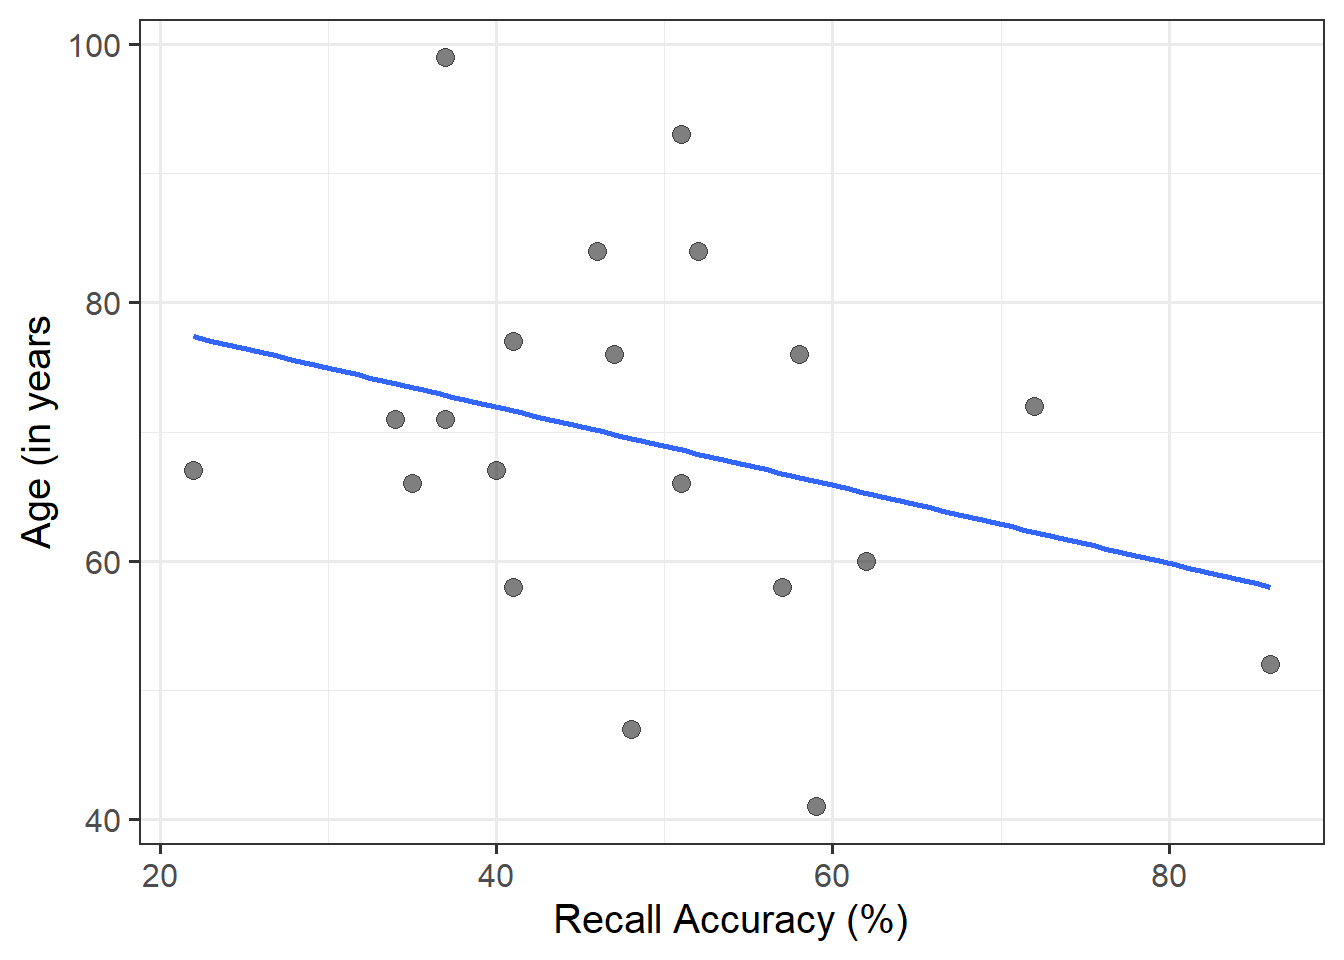
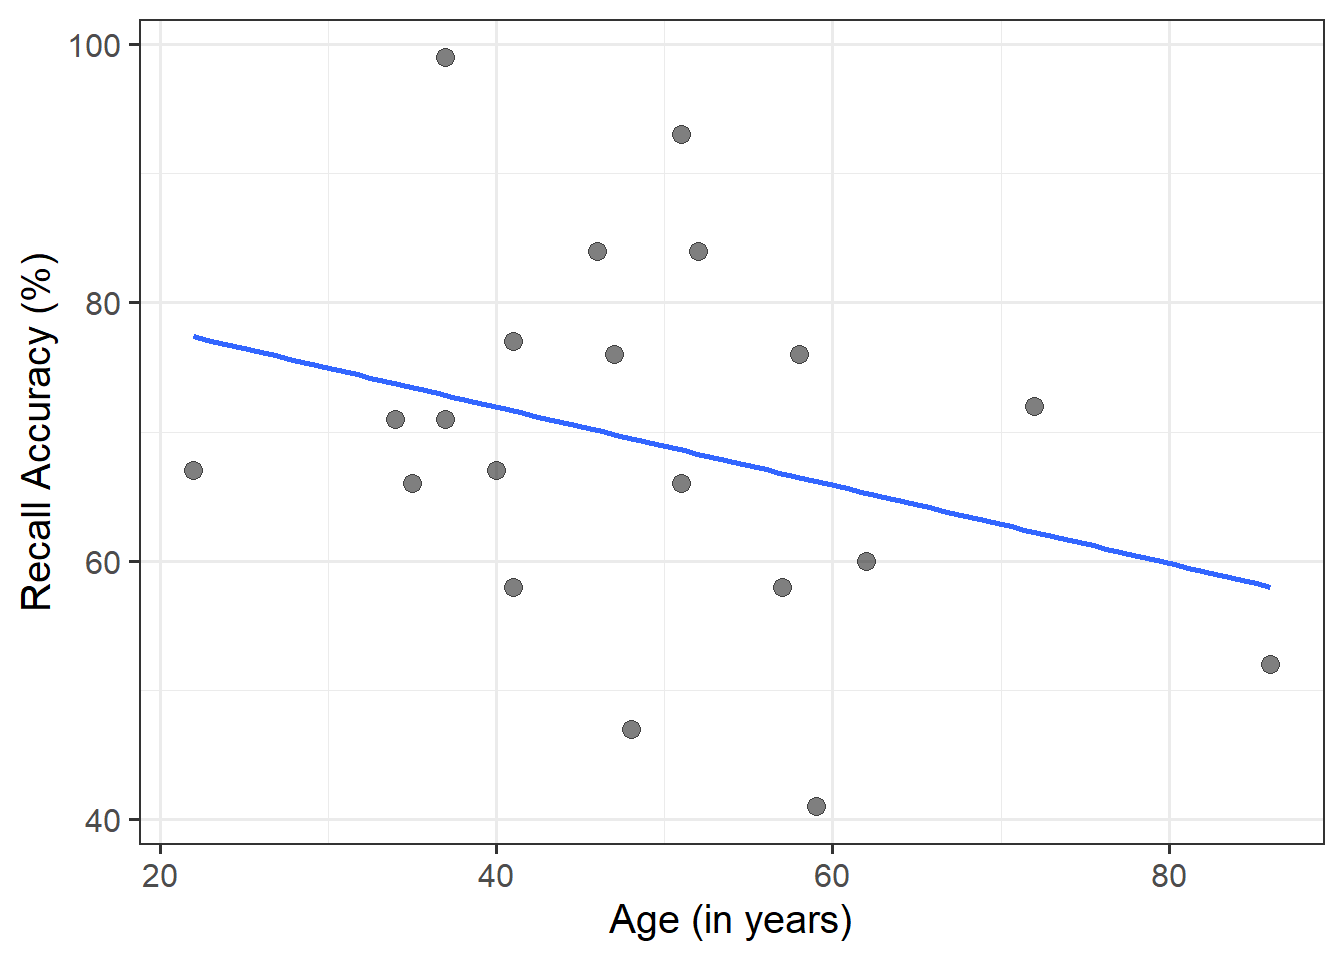
s1 w1 lab and b1 reading typo fixes

Changed region(s): [[0.0, 0.2812, 0.0625, 0.6562], [0.4062, 0.9375, 0.6875, 1.0]]

diff --git a/docs/2425/labs/1_b1_reading.html b/docs/2425/labs/1_b1_reading.html
@@ -258,7 +258,7 @@ if(f.classList.contains('fa-circle-right')) {
 </section>
 </div>
 <section id="back-to-basics" class="level1"><h1>Back to Basics</h1>
-<p>For an overview of basic statistical tests and core concepts (e.g., <span class="math inline">\(p\)</span>-values), please revisit the <a href="https://uoepsy.github.io/dapr1/2324/">DAPR1 materials</a> for a refresher.</p>
+<p>For an overview of basic statistical tests and core concepts (e.g., <span class="math inline">\(p\)</span>-values), please revisit the <a href="https://uoepsy.github.io/dapr1/2324/">DAPR1 materials</a> for a refresher (also accessible via the DAPR1 Learn page).</p>
 <div class="optional-begin">
 <span id="opt-start-1" class="fa-solid fa-circle-right optional-icon clickable" onclick="toggle_visibility('opt-body-1', 'opt-start-1')"> <span class="olab">Terminology</span></span>
 </div>
@@ -488,7 +488,7 @@ The <em>strength</em> of association entails how closely the points fall to a re
 </li>
 </ul>
 </li>
-<li>Direction: The sign of <span class="math inline">\(r\)</span> says nothing about the strength of the association, but its naure and direction:
+<li>Direction: The sign of <span class="math inline">\(r\)</span> says nothing about the strength of the association, but its nature and direction:
 <ul>
 <li>Positive association means that values of one variable tend to be higher when values of the other variable are higher</li>
 <li>Negative association means that values of one variable tend to be lower when values of the other variable are higher</li>
@@ -1177,7 +1177,7 @@ Why is there a 1 in the two bottom options?
 <span id="opt-start-16" class="fa-solid fa-circle-right optional-icon clickable" onclick="toggle_visibility('opt-body-16', 'opt-start-16')"> <span class="olab">Simple Linear Regression Models - Example</span></span>
 </div>
 <div id="opt-body-16" class="optional-body" style="display: none;">
-<p>Imagine that you were taked to investigate whether there was asn association between recall accuracy and age. You have been provided with data from twenty participants who studied passages of text (c500 words long), and were tested a week later. The testing phase presented participants with 100 statements about the text. They had to answer whether each statement was true or false, as well as rate their confidence in each answer (on a sliding scale from 0 to 100). The dataset contains, for each participant, the percentage of items correctly answered, their age (in years), and their average confidence rating.</p>
+<p>Imagine that you were tasked to investigate whether there was an association between recall accuracy and age. You have been provided with data from twenty participants who studied passages of text (c500 words long), and were tested a week later. The testing phase presented participants with 100 statements about the text. They had to answer whether each statement was true or false, as well as rate their confidence in each answer (on a sliding scale from 0 to 100). The dataset contains, for each participant, the percentage of items correctly answered, their age (in years), and their average confidence rating.</p>
 <p>The data are available at <a href="https://uoepsy.github.io/data/recalldata.csv">https://uoepsy.github.io/data/recalldata.csv</a></p>
 <p>We could specify our model as:</p>
 <p><span class="math display">\[
@@ -1440,7 +1440,7 @@ t = \frac{\hat \beta_j - 0}{SE(\hat \beta_j)}
 <div class="sourceCode" id="cb35"><pre class="downlit sourceCode r"><code class="sourceCode R"><span><span class="fu"><a href="https://ggplot2.tidyverse.org/reference/ggplot.html">ggplot</a></span><span class="op">(</span><span class="va">recalldata</span>, <span class="fu"><a href="https://ggplot2.tidyverse.org/reference/aes.html">aes</a></span><span class="op">(</span>x <span class="op">=</span> <span class="va">age</span>, y <span class="op">=</span> <span class="va">recall_accuracy</span><span class="op">)</span><span class="op">)</span> <span class="op">+</span> </span>
 <span>    <span class="fu"><a href="https://ggplot2.tidyverse.org/reference/geom_point.html">geom_point</a></span><span class="op">(</span>size <span class="op">=</span> <span class="fl">3</span>, alpha <span class="op">=</span> <span class="fl">0.5</span><span class="op">)</span> <span class="op">+</span></span>
 <span>    <span class="fu"><a href="https://ggplot2.tidyverse.org/reference/geom_smooth.html">geom_smooth</a></span><span class="op">(</span>method <span class="op">=</span> <span class="va">lm</span>, se <span class="op">=</span> <span class="cn">FALSE</span><span class="op">)</span> <span class="op">+</span> </span>
-<span>    <span class="fu"><a href="https://ggplot2.tidyverse.org/reference/labs.html">labs</a></span><span class="op">(</span>x <span class="op">=</span> <span class="st">"Recall Accuracy (%)"</span>, y <span class="op">=</span> <span class="st">"Age (in years"</span><span class="op">)</span></span></code></pre></div>
+<span>    <span class="fu"><a href="https://ggplot2.tidyverse.org/reference/labs.html">labs</a></span><span class="op">(</span>x <span class="op">=</span> <span class="st">"Age (in years)"</span>, y <span class="op">=</span> <span class="st">"Recall Accuracy (%)"</span><span class="op">)</span></span></code></pre></div>
 <div class="cell-output-display">
 <div id="fig-recallage-fitted-model" class="quarto-figure quarto-figure-center anchored">
 <figure class="figure"><p><img src="1_b1_reading_files/figure-html/fig-recallage-fitted-model-1.png" class="img-fluid figure-img" style="width:80.0%"></p>
@@ -1836,7 +1836,7 @@ F_{(df_{model},~df_{residual})} = \frac{MS_{Model}}{MS_{Residual}} = \frac{SS_{M
 \]</span></p>
 <p><strong>Description:</strong></p>
 <p>To test the significance of an overall model, we can conduct an <span class="math inline">\(F\)</span>-test. The <span class="math inline">\(F\)</span>-test compares your model to a model containing zero predictor variables (i.e., the intercept only model), and tests whether your added predictor variables significantly improved the model.</p>
-<p>It is called the <span class="math inline">\(F\)</span>-ratio because it is the ratio of the how much of the variation is explained by the model (per paramater) versus how much of the variation is unexplained (per remaining degrees of freedom).</p>
+<p>It is called the <span class="math inline">\(F\)</span>-ratio because it is the ratio of the how much of the variation is explained by the model (per parameter) versus how much of the variation is unexplained (per remaining degrees of freedom).</p>
 <p>The <span class="math inline">\(F\)</span>-test involves testing the statistical significance of the <span class="math inline">\(F\)</span>-ratio.</p>
 <p><strong>Q:</strong> What does the <span class="math inline">\(F\)</span>-ratio test?<br><strong>A:</strong> The null hypothesis that all regression slopes in a model are zero (i.e., explain no variance in your outcome/DV). The alternative hypothesis is that <strong>at least one of the slopes is not zero</strong>.</p>
 <p>The <span class="math inline">\(F\)</span>-ratio you see at the bottom of <code>summary(model)</code> is actually a comparison between two models: your model (with some explanatory variables in predicting <span class="math inline">\(y\)</span>) and the <em>null model</em>.</p>
@@ -2128,7 +2128,7 @@ BIC = n\,\text{ln}\left( \frac{SS_{residual}}{n} \right) + k\,\text{ln}(n) \\
 <span id="opt-start-35" class="fa-solid fa-circle-right optional-icon clickable" onclick="toggle_visibility('opt-body-35', 'opt-start-35')"> <span class="olab">Cross Referencing</span></span>
 </div>
 <div id="opt-body-35" class="optional-body" style="display: none;">
-<p>There are three key components to allow you to successfully cross-reference within yoru RMarkdown document:</p>
+<p>There are three key components to allow you to successfully cross-reference within your RMarkdown document:</p>
 <ul>
 <li>A bookdown output format</li>
 <li>A caption to your figure or table</li>
@@ -2139,9 +2139,6 @@ BIC = n\,\text{ln}\left( \frac{SS_{residual}}{n} \right) + k\,\text{ln}(n) \\
 </div>
 <p class="optional-end">
 </p>
-<div class="cell" data-layout-align="center">
-<div class="sourceCode" id="cb59"><pre class="downlit sourceCode r"><code class="sourceCode R"><span><span class="kw"><a href="https://rdrr.io/r/base/library.html">library</a></span><span class="op">(</span><span class="va"><a href="https://tidyverse.tidyverse.org">tidyverse</a></span><span class="op">)</span></span></code></pre></div>
-</div>
 
 
 </section></section><div id="quarto-appendix" class="default"><section id="footnotes" class="footnotes footnotes-end-of-document" role="doc-endnotes"><h2 class="anchored quarto-appendix-heading">Footnotes</h2>

diff --git a/docs/2425/labs/1_01_slr.html b/docs/2425/labs/1_01_slr.html
@@ -250,7 +250,7 @@ if(f.classList.contains('fa-circle-right')) {
 <li><strong>kableExtra</strong></li>
 </ul></section><section id="presenting-results" class="level3"><h3 class="anchored" data-anchor-id="presenting-results">
 <i class="fa fa-pencil-square-o" aria-hidden="true"></i> Presenting Results</h3>
-<p>All results should be presented following <a href="https://apastyle.apa.org/instructional-aids/numbers-statistics-guide.pdf">APA guidelines</a>.If you need a reminder on how to hide code, format tables/plots, etc., make sure to review the <a href="https://uoepsy.github.io//rmd-bootcamp/">rmd bootcamp</a>.</p>
+<p>All results should be presented following <a href="https://apastyle.apa.org/instructional-aids/numbers-statistics-guide.pdf">APA guidelines</a>.If you need a reminder on how to hide code, format tables/plots, etc., make sure to review the <a href="https://uoepsy.github.io/scs/rmd-bootcamp/">rmd bootcamp</a>.</p>
 <p>The example write-up sections included as part of the solutions are <strong>not perfect</strong> - they instead should give you a good example of what information you should include and how to structure this. Note that you must <strong>not</strong> copy any of the write-ups included below for future reports - if you do, you will be committing plagiarism, and this type of academic misconduct is taken very seriously by the University. You can find out more <a href="https://www.ed.ac.uk/academic-services/students/conduct/academic-misconduct">here</a>.</p>
 </section><section id="lab-data" class="level3"><h3 class="anchored" data-anchor-id="lab-data">
 <i class="fa fa-file"></i> Lab Data</h3>
@@ -1953,7 +1953,8 @@ In your <code><a href="https://ggplot2.tidyverse.org/reference/ggplot.html">ggpl
 <center>
 <code> geom_abline(intercept = <strong>intercept</strong>, slope = <strong>slope</strong>) </code>
 </center>
-<p>For further <code><a href="https://ggplot2.tidyverse.org/reference/ggplot.html">ggplot()</a></code> guidance, see the <a href="https://uoepsy.github.io/dapr2/2425/labs/1_b1_reading.html#data-exploration">how to visualise data flashcard</a></p>
+<p><br></p>
+<p>For further <code><a href="https://ggplot2.tidyverse.org/reference/ggplot.html">ggplot()</a></code> guidance, see the <a href="https://uoepsy.github.io/dapr2/2425/labs/1_b1_reading.html#data-exploration">how to visualise data flashcard</a>.</p>
 </div>
 </div>
 </div>
@@ -2237,6 +2238,7 @@ Hiding Code and/or Output
 </div>
 <div id="callout-10" class="callout-10-contents callout-collapse collapse">
 <div class="callout-body-container callout-body">
+<p>Review <a href="https://uoepsy.github.io/scs/rmd-bootcamp/05-echoeval.html">Lesson 5 of the rmd bootcamp</a> for a detailed description/worked examples.</p>
 <div class="tabset-margin-container"></div><div class="panel-tabset">
 <ul class="nav nav-tabs" role="tablist">
 <li class="nav-item" role="presentation"><a class="nav-link active" id="tabset-8-1-tab" data-bs-toggle="tab" data-bs-target="#tabset-8-1" role="tab" aria-controls="tabset-8-1" aria-selected="true">Hiding R Code</a></li>
